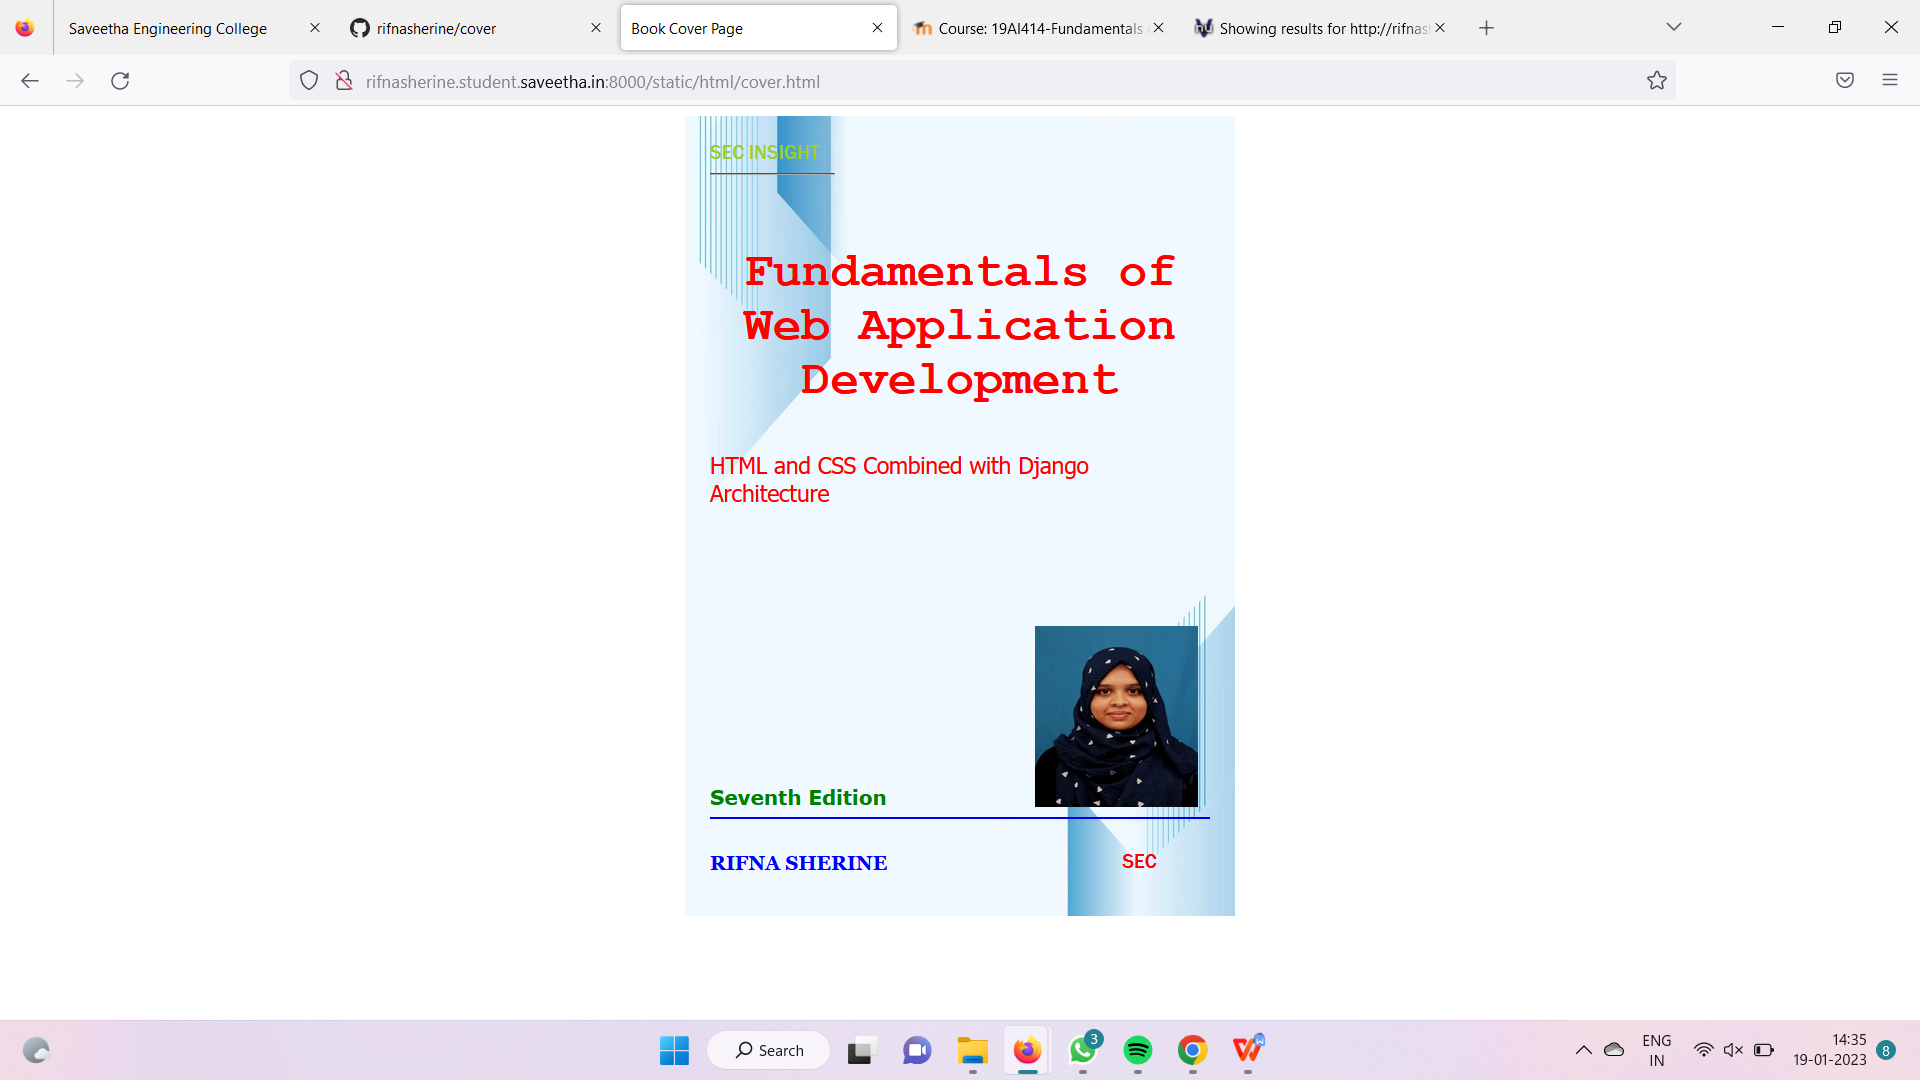
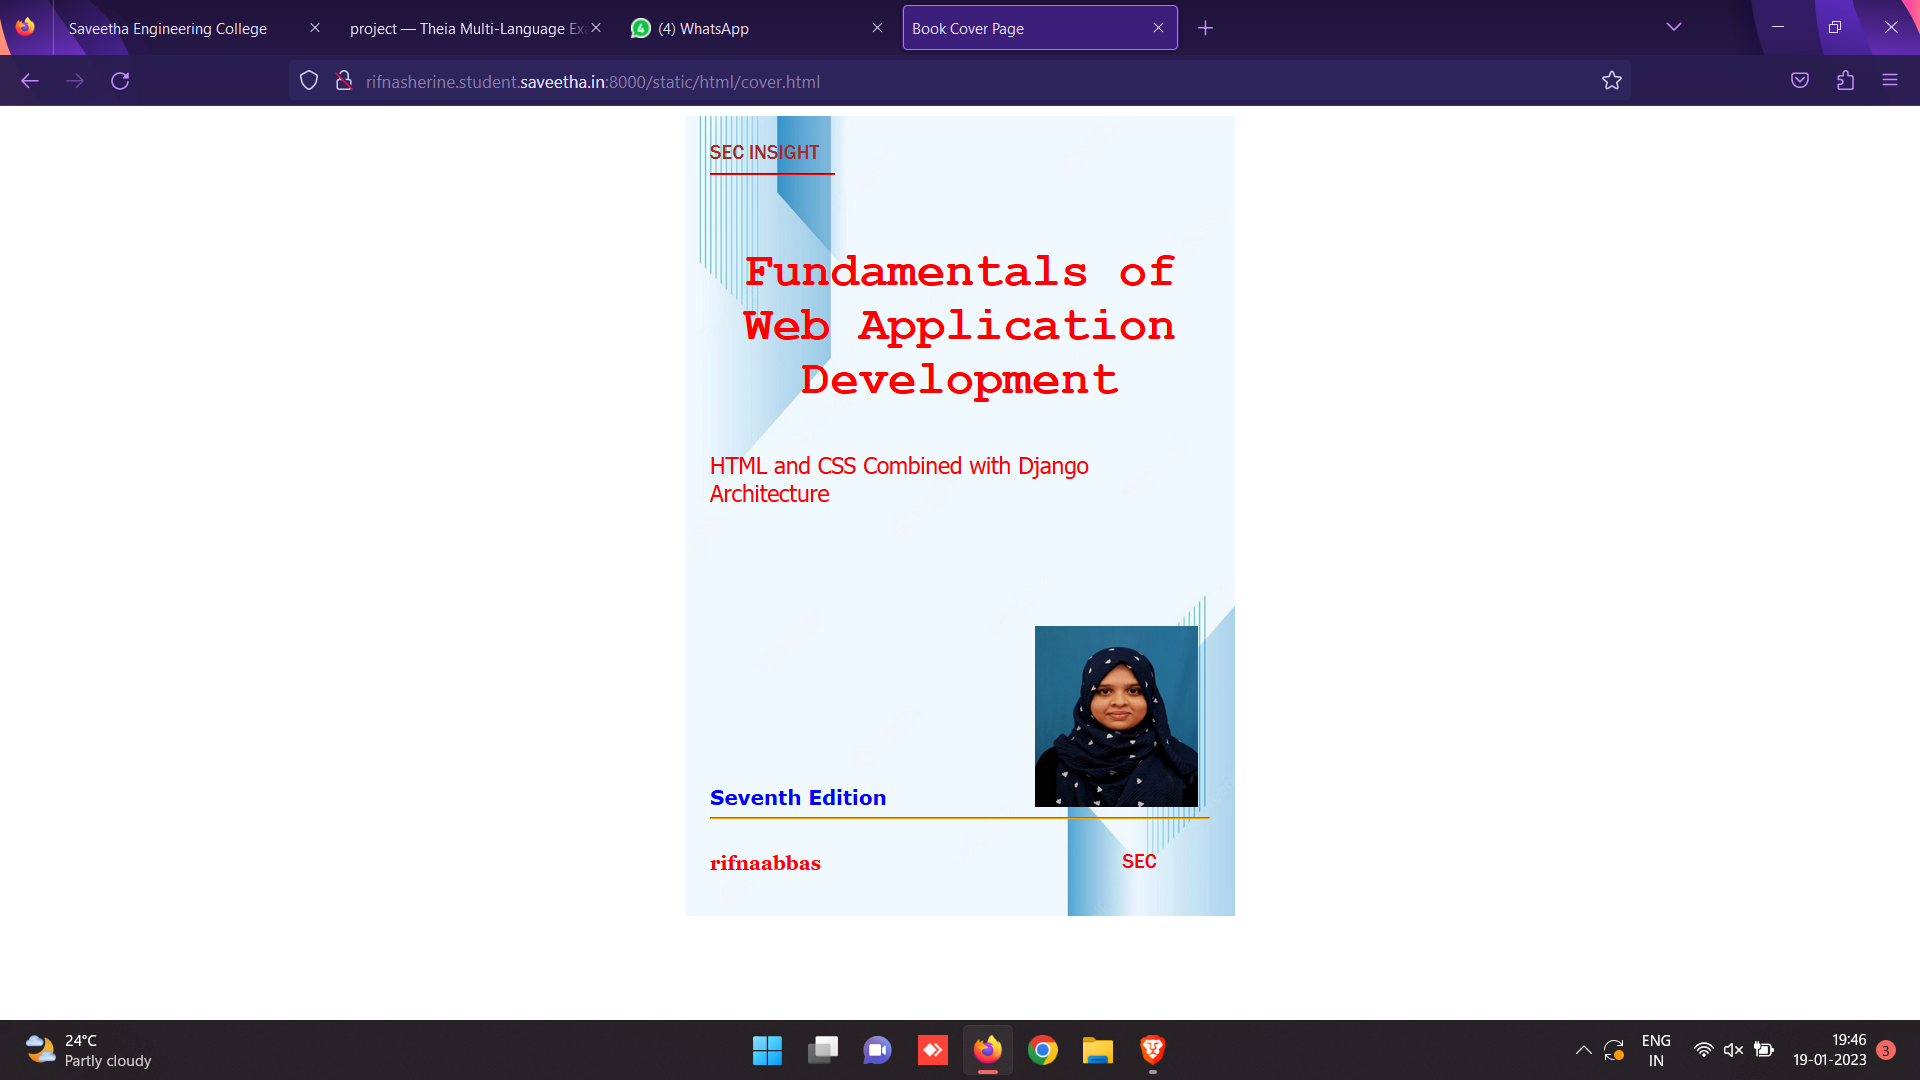
Success

diff --git a/rifnasherine/static/html/cover.html b/rifnasherine/static/html/cover.html
@@ -19,7 +19,7 @@
             
 
         .insight{
-            color:yellowgreen;
+            color: brown;
 
         }
 
@@ -31,7 +31,7 @@
         
             display: inline;
             position: relative;
-            color:blue;
+            color: red;
             top:190px;
             
             font-family:Georgia;
@@ -58,7 +58,7 @@
             left:330px;
         }
         .ed{
-            color:green;
+            color: blue;
             font-size: medium;
             font-family: Verdana;
             position:relative;
@@ -88,7 +88,7 @@
                 SEC INSIGHT
             </div>
             <div class="hrstyle">
-                <hr style="color: black;">
+                <hr style="color: red;">
             </div>
             <div class="booktitle">
                 <h1>Fundamentals of Web Application Development</h1></div>
@@ -99,10 +99,10 @@
                 <img src="/static/images/my.jpeg" width="130" height="145" alt="">
             </div>
             <div class="id">
-                <hr style="color: blue;">
+                <hr style="color: orange;">
             </div>
             <div class="author">
-               <p><b>RIFNA SHERINE</b></p>
+               <p><b>rifnaabbas</b></p>
             </div>
             <div class="pub">
                 SEC

diff --git a/README.md b/README.md
@@ -5,14 +5,137 @@ To develop a website to display the cover page design of a book
 ## Design Steps:
 
 ### Step 1:
-Write your own steps here.
+Clone the GitHub repositary and create a Django admin interface.
 ### Step 2:
+Write HTML and CSS code for designing book cover page and execute them.
 
 ## Code:
-Include your HTML code here
+```
+<!DOCTYPE html>
+<html lang="en">
+    <head>
+         <meta name="viewport" 
+         content="width=device-width, initial-scale=1.0">
+         <style>
+
+        .bookpage{
+            width: 400px;
+            height: 600px;
+            color:red;
+            margin-left: auto;
+            margin-right: auto;
+            padding: 20px;
+            font-family: 'Franklin Gothic Medium', 'Arial Narrow', Arial, sans-serif;
+            background-image: url(/static/images/back.jpg);
+            background-size: cover;
+        }
+            
+
+        .insight{
+            color: brown;
+
+        }
+
+        
+        .hrstyle{
+            width:100px;
+        }
+        .author{
+        
+            display: inline;
+            position: relative;
+            color: red;
+            top:190px;
+            
+            font-family:Georgia;
+            font-size: medium;
+        }
+        .booktitle{
+            font-family: 'Courier New', Courier, monospace;
+            font-size: larger;
+            text-align: center;
+            position: relative;
+            top: 30px;
+        
+        }
+        .id {
+            width:400px;
+            position: relative;
+            top:180px;
+            
+        }
+        .pub{
+            font-size: medium;
+            position: relative;
+            top:155px;
+            left:330px;
+        }
+        .ed{
+            color: blue;
+            font-size: medium;
+            font-family: Verdana;
+            position:relative;
+            top:85px;
+
+        }
+        .subtitle{
+            font-family:Tahoma;
+            font-size: large;
+            position: relative;
+            top:40px;
+        }
+        .mypic{
+            position: relative;
+            top: 135px;
+            left: 260px;
+            width: 100px;
+            height: 100px;
+            background-size: cover;
+        }
+        </style>
+        <title>Book Cover Page</title>
+    </head>
+    <body>
+        <div class="bookpage">
+            <div class="insight">
+                SEC INSIGHT
+            </div>
+            <div class="hrstyle">
+                <hr style="color: red;">
+            </div>
+            <div class="booktitle">
+                <h1>Fundamentals of Web Application Development</h1></div>
+            <div class="subtitle">
+                HTML and CSS Combined with Django Architecture
+            </div>
+            <div class="mypic">
+                <img src="/static/images/my.jpeg" width="130" height="145" alt="">
+            </div>
+            <div class="id">
+                <hr style="color: orange;">
+            </div>
+            <div class="author">
+               <p><b>rifnaabbas</b></p>
+            </div>
+            <div class="pub">
+                SEC
+            </div>
+            <div class="ed">
+                <b>Seventh Edition</b>
+            </div>
+        </div>
+    </body>
+</html>
+```
+
+
 
 ## Output:
-Include your output screenshot here
+![Output](./out.png)
+
+## HTML Validator
+![HTML Validator](./valid.png)
+
 
 ## Result:
-Write your result
+The program for desining book cover page using HTML and CSS is executed successfully
